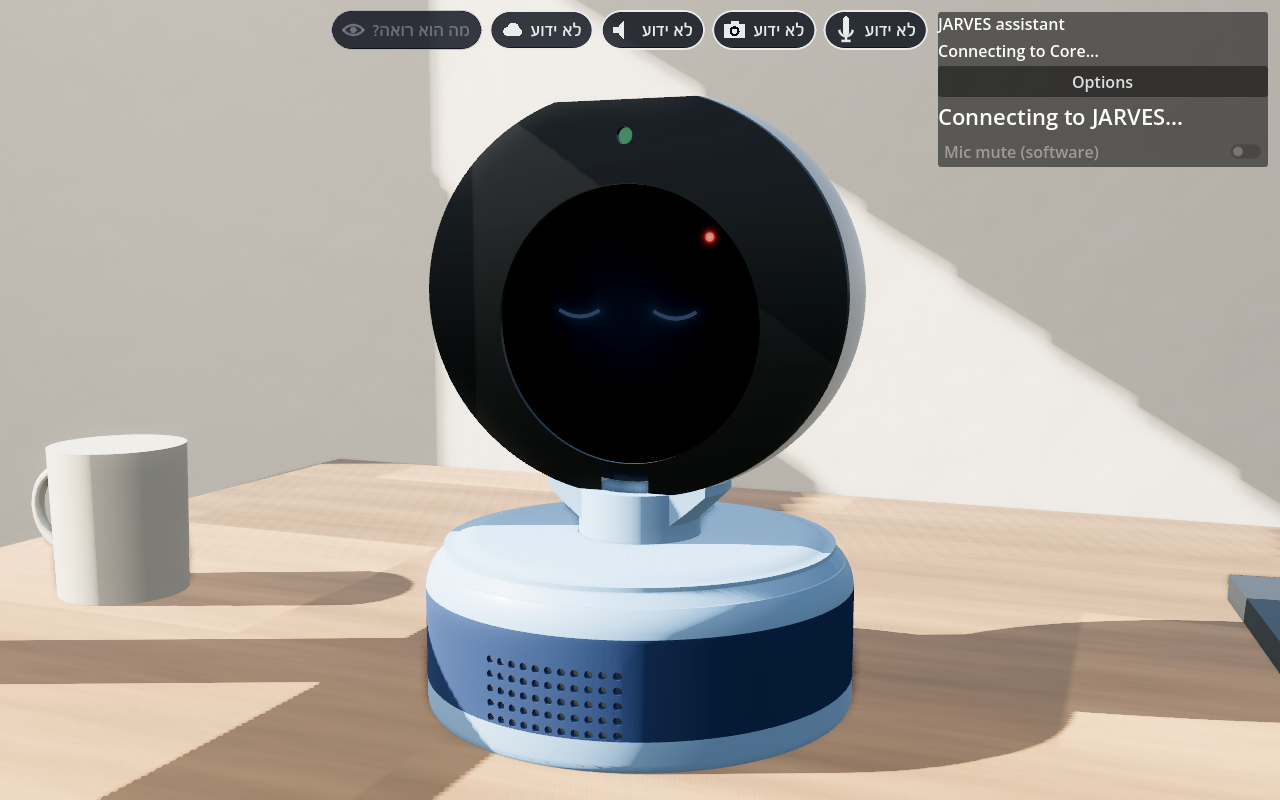
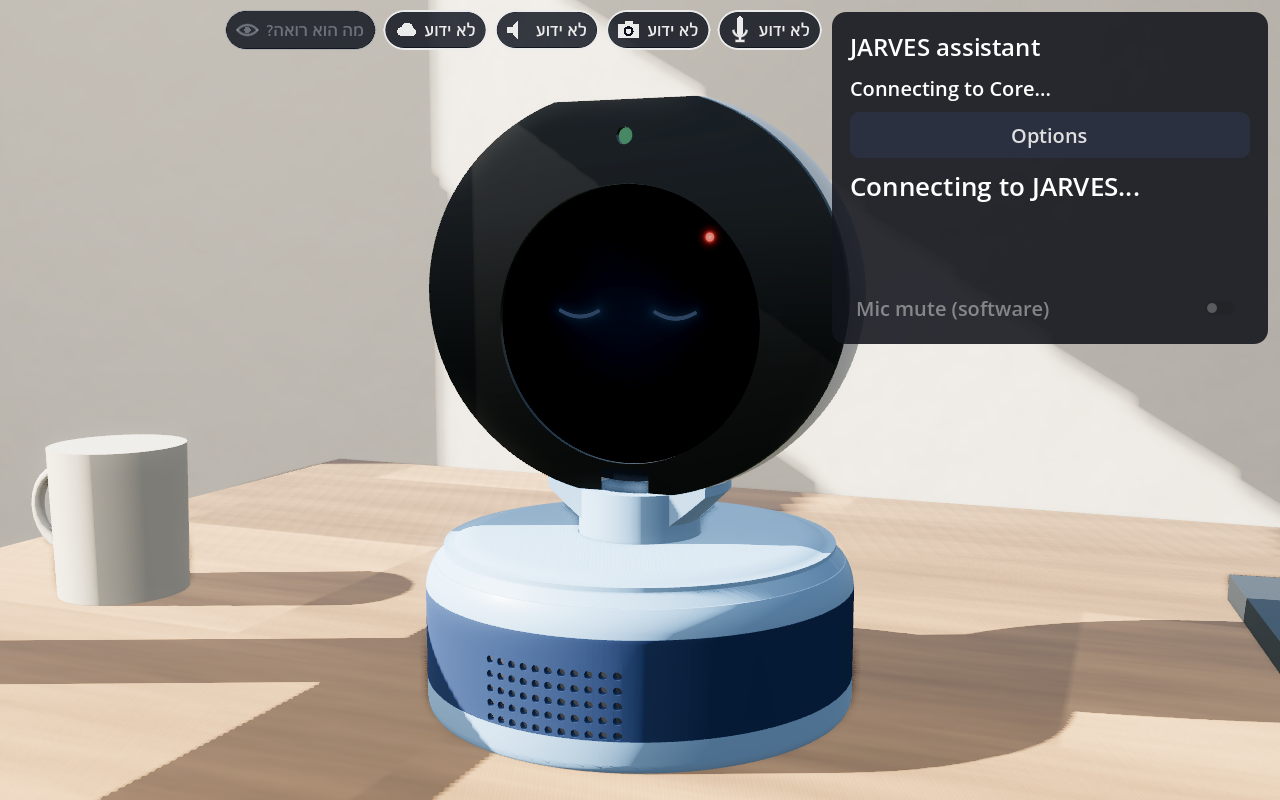
Preserve microphone recovery across current main integration

Changed region(s): [[0.1562, 0.0, 1.0, 0.4375]]

diff --git a/core/src/jarves/dashboard_static/locales/he.js b/core/src/jarves/dashboard_static/locales/he.js
@@ -1896,7 +1896,8 @@
   "Set up WhatsApp in one go": "הגדרת וואטסאפ בלחיצה אחת",
   "Starts the bridge if needed and shows a QR code. You scan it on your phone, then you can switch on read-only. No message is sent.": "מפעיל את הגשר במידת הצורך ומציג קוד QR. את הסריקה בטלפון עושים אתם, ואחריה אפשר להפעיל קריאה בלבד. לא נשלחת שום הודעה.",
   "Set up WhatsApp": "הגדרת וואטסאפ",
-  "Switch on read-only mode now? JARVES will read and never send.": "להפעיל עכשיו מצב קריאה בלבד? ג'ארביס יקרא ולא ישלח."
+  "Switch on read-only mode now? JARVES will read and never send.": "להפעיל עכשיו מצב קריאה בלבד? ג'ארביס יקרא ולא ישלח.",
+  "From the command line: jarvis mic status, jarvis mic mute, or jarvis mic unmute. The choice survives restart. With Core stopped, the preference is saved for next start and is not live-verified.": "בשורת הפקודה: jarvis mic status, jarvis mic mute או jarvis mic unmute. המצב נשמר גם אחרי הפעלה מחדש. כשהליבה עצורה נשמרת בחירה להפעלה הבאה, בלי לטעון שהמיקרופון פעיל כרגע."
  },
  "rules": [
   [

diff --git a/core/src/jarves/dashboard_static/locales/en.js b/core/src/jarves/dashboard_static/locales/en.js
@@ -1896,6 +1896,7 @@
   "Set up WhatsApp in one go": "Set up WhatsApp in one go",
   "Starts the bridge if needed and shows a QR code. You scan it on your phone, then you can switch on read-only. No message is sent.": "Starts the bridge if needed and shows a QR code. You scan it on your phone, then you can switch on read-only. No message is sent.",
   "Set up WhatsApp": "Set up WhatsApp",
-  "Switch on read-only mode now? JARVES will read and never send.": "Switch on read-only mode now? JARVES will read and never send."
+  "Switch on read-only mode now? JARVES will read and never send.": "Switch on read-only mode now? JARVES will read and never send.",
+  "From the command line: jarvis mic status, jarvis mic mute, or jarvis mic unmute. The choice survives restart. With Core stopped, the preference is saved for next start and is not live-verified.": "From the command line: jarvis mic status, jarvis mic mute, or jarvis mic unmute. The choice survives restart. With Core stopped, the preference is saved for next start and is not live-verified."
  }
 };

diff --git a/core/tests/test_conversation_controls.py b/core/tests/test_conversation_controls.py
@@ -89,7 +89,20 @@ async def test_muted_microphone_blocks_every_voice_session_start(home, cfg):
 
 
 def test_cli_mic_disconnected_is_not_success(home, cfg, monkeypatch):
+    from jarves.runtime import lock
     monkeypatch.setattr(cli, "_ws_call", lambda *a, **k: None)
+    monkeypatch.setattr(lock, "held", lambda *a: True)
     assert cli.cmd_mic(SimpleNamespace(action="unmute"), cfg, home) == 1
     monkeypatch.setattr(cli, "_ws_call", lambda *a, **k: {"runtime": {"mic": {"muted": False}}})
     assert cli.cmd_mic(SimpleNamespace(action="mute"), cfg, home) == 1
+
+
+def test_cli_mic_stopped_saves_explicit_choice_without_starting_audio(home, cfg, monkeypatch, capsys):
+    from jarves.runtime import lock
+    monkeypatch.setattr(lock, "held", lambda *a: False)
+    monkeypatch.setattr(cli, "_ws_call", lambda *a, **k: None)
+    for action, muted in (("mute", True), ("unmute", False)):
+        assert cli.cmd_mic(SimpleNamespace(action=action), cfg, home) == 0
+        assert read_state(home)["prefs"]["mic_muted"] is muted
+        assert "not live-verified" in capsys.readouterr().out
+    assert cli.cmd_mic(SimpleNamespace(action="status"), cfg, home) == 0

diff --git a/core/src/jarves/cli.py b/core/src/jarves/cli.py
@@ -411,6 +411,19 @@ def cmd_mic(a, cfg, home) -> int:
         r = _ws_call(home, cfg.link.port, {"type": "runtime.set", "payload": {"mic_muted": a.action == "mute"}},
                      "runtime.state", timeout=8)
         mic = ((r or {}).get("runtime") or {}).get("mic") or {}
+    if r is None:
+        from .runtime.lock import held
+        from .runtime.service import read_state, save_prefs
+        if not held(home):
+            try:
+                prefs = ((read_state(home).get("prefs") or {}) if a.action == "status"
+                         else save_prefs(home, {"mic_muted": a.action == "mute"}))
+            except OSError:
+                prefs = {}
+            if isinstance(prefs.get("mic_muted"), bool):
+                state = "MUTED" if prefs["mic_muted"] else "on"
+                print(f"Saved microphone preference: {state}. Core stopped; applies at next start (not live-verified).")
+                return 0
     if r is None or not isinstance(mic.get("muted"), bool):
         print("No live microphone status. Start JARVES with: jarvis start")
         return 1

diff --git a/docs/HANDOFF.md b/docs/HANDOFF.md
@@ -3,9 +3,10 @@
 - Owner request: inspect the latest conversation, correct microphone mute/non-dashboard unmute, room appearance and CLI parity; explicitly delegated review/fixes of all local dashboard notes/issues with verified rechecks and history-preserving resolution. This is not permission to work the unrelated GitHub backlog.
 - Python Core owns the missing mute action/CLI surfaces and result/readiness bookkeeping; Godot owns the room's missing appearance renderer and visible recovery button. No CAD/material/source assets changed. CLI: `jarvis mic mute|unmute|status`; `jarvis appearance list|status|set avatar2d` (also face/avatar3d/hidden).
 - [Complete sanitized dashboard inventory](reviews/DASHBOARD_FINDINGS_23OCT2026.md): 25 conversation issues, 13 Bug reports, six monitor findings, 15 latest self-check findings, seven AI notes. Current timing classifier does not reproduce two old stall findings. Real input quality, camera/player/account acceptance and unexplained current latency remain open; no paid replay or capture.
-- Private status review: verified standard checkpoint and exact historical classifier recheck. Conversation entries 2/3 (stale timing) and 21 (recovered transport incident) resolved; 13/14/18 (expected refusals) and 22 (unconfirmed AI hypothesis) ignored. All records/history retained; audit stays private. Source-fix-dependent entries are not yet claimed cleared on the installed build.
+- Private status review: verified standard checkpoint and exact historical classifier recheck. Conversation entries 2/3 (stale timing), 13/14 (reviewed refusals) and 21 (recovered transport incident) resolved; 18 (permanently benign guard warning) and 22 (unconfirmed AI hypothesis) ignored. Generic failure fingerprints use resolved so a genuine new occurrence can reopen them. All records/history retained; audit stays private. Source-fix-dependent entries are not yet claimed cleared on the installed build.
 - First hosted Godot run exposed the offline harness skipping the receiver (`--check --no-core`). The check now builds the controls with CoreLink explicitly disabled; the exact hosted command passes locally with all assertions retained. Only the three affected previews were refreshed; normalized source hashes match the final scripts.
 - Hosted routing tests also required quoted English/Hebrew triggers and routing rows for the new mute tool; both added. Fifteen focused control/routing checks pass, including blocking every new voice-session start while muted. Reviewed refusal records 13/14/18 were replayed through the corrected classifier read-only: no corresponding false findings, other findings retained.
+- A second upstream sync introduced the viewer settings tree and offline saved mic preferences. Kept the recovery toggle outside the hidden tree and strengthened the actual-visibility assertion; exact offline Godot check passes. CLI uses the same saved-preference path only when no Core lock is held, and clearly distinguishes configured state from live verification. All 43 combined runtime/control/routing tests passed; latest actual previews refreshed for the integrated layout.
 - Checks so far: 42 focused control/appearance tests passed; real Godot room self-check passed, including every appearance mode and the unmute message with Options collapsed. Independently tested startup ordering (15 tests) and exactly-one tool outcome logging (31 tests including existing Core contracts) integrated. Expected-refusal classification passed 72 focused history/registry tests, preserving model bad-argument and real failure detection; diagnostic snapshot dedup passed 20 registry and 12 Health API tests. All eight final pre-push checks passed after the classifier and separate-Live-stream privacy follow-ups. Final checks, commit/CI links and installed/rechecked dashboard statuses are recorded on [maintenance #77](https://github.com/igalgerman/jarves/issues/77).
 - Actual project renders: [room 2D](../output/control-review/room-avatar2d.png), [room 3D](../output/control-review/room-avatar3d.png), [visible mic control](../output/control-review/room-controls.png). Reproduction/source hashes in [manifest](../output/control-review/source-manifest.json). Automatic offscreen renders, not owner visual approval.
 
@@ -19,6 +20,8 @@
 | Player/account/camera/physical acceptance? | Keep actual integration gates open; fake tests do not prove them. | DEFERRED to owner-assisted real use; no new sign-in, capture or purchase. |
 | Auto-download a missing WhatsApp bridge? | Keep the maintained reinstall/source-build route; the current owner PC already has the bridge binary. | DEFERRED: separate WhatsApp setup/release decision; no automatic download or account linking added here. |
 | Does the installer include the bridge? | The pinned build stages it and payload_check verifies its hash before recursive installer inclusion. | ANSWERED for packaging/current PC: build_windows.ps1 and payload_check.py enforce the pinned bridge; the installed build-217 bridge file exists. Real linking remains unverified. |
+| Is the optional Admin keys page available on the owner account? | Keep cost estimates and skip the optional key until the owner can check that account page. | DEFERRED: real account UI/OD-05 gate; no sign-in or key access needed for these controls. |
+
 ## Admin-key prompt for personal OpenAI accounts — 23 Oct 2026
 
 - Owner report: on a personal OpenAI account the guided setup text ("as the organization owner") did not match what they see. Reworded the `jarvis connect openai-admin` steps, the "Real API bill" guide (he/en) and `OPENAI_ADMIN_KEY.md`: a personal account is its own organization and its owner; if the Admin keys page is missing, skip (`s`), everything works and cost shows as an estimate. No logic change; key handling unchanged.

diff --git a/docs/reviews/DASHBOARD_FINDINGS_23OCT2026.md b/docs/reviews/DASHBOARD_FINDINGS_23OCT2026.md
@@ -59,7 +59,7 @@ Reviewed: 25 conversation issues, 13 Bug reports, six monitor findings (four act
 
 ## Verified private status checkpoint
 
-A verified standard backup was created before writes. The installed classifier was rerun on the exact historical sessions and produced no stall findings. Conversation records 2/3 and recovered incident 21 are now resolved; expected refusal records 13/14/18 and unconfirmed AI hypothesis 22 are ignored. Seven statuses changed, zero records/history deleted. The private audit records the backup and each rationale. Other gates remain open; source fixes are not proof that the installed runtime has changed.
+A verified standard backup was created before writes. The installed classifier was rerun on the exact historical sessions and produced no stall findings. Conversation records 2/3/13/14 and recovered incident 21 are now resolved; permanently benign guard warning 18 and unconfirmed AI hypothesis 22 are ignored. Generic failure fingerprints 13/14 use resolved rather than ignored, so genuine new failures can reopen them. Seven statuses changed, zero records/history deleted. The private audit records the backup and each rationale. Other gates remain open; source fixes are not proof that the installed runtime has changed.
 
 ## Recheck and resolution policy
 
